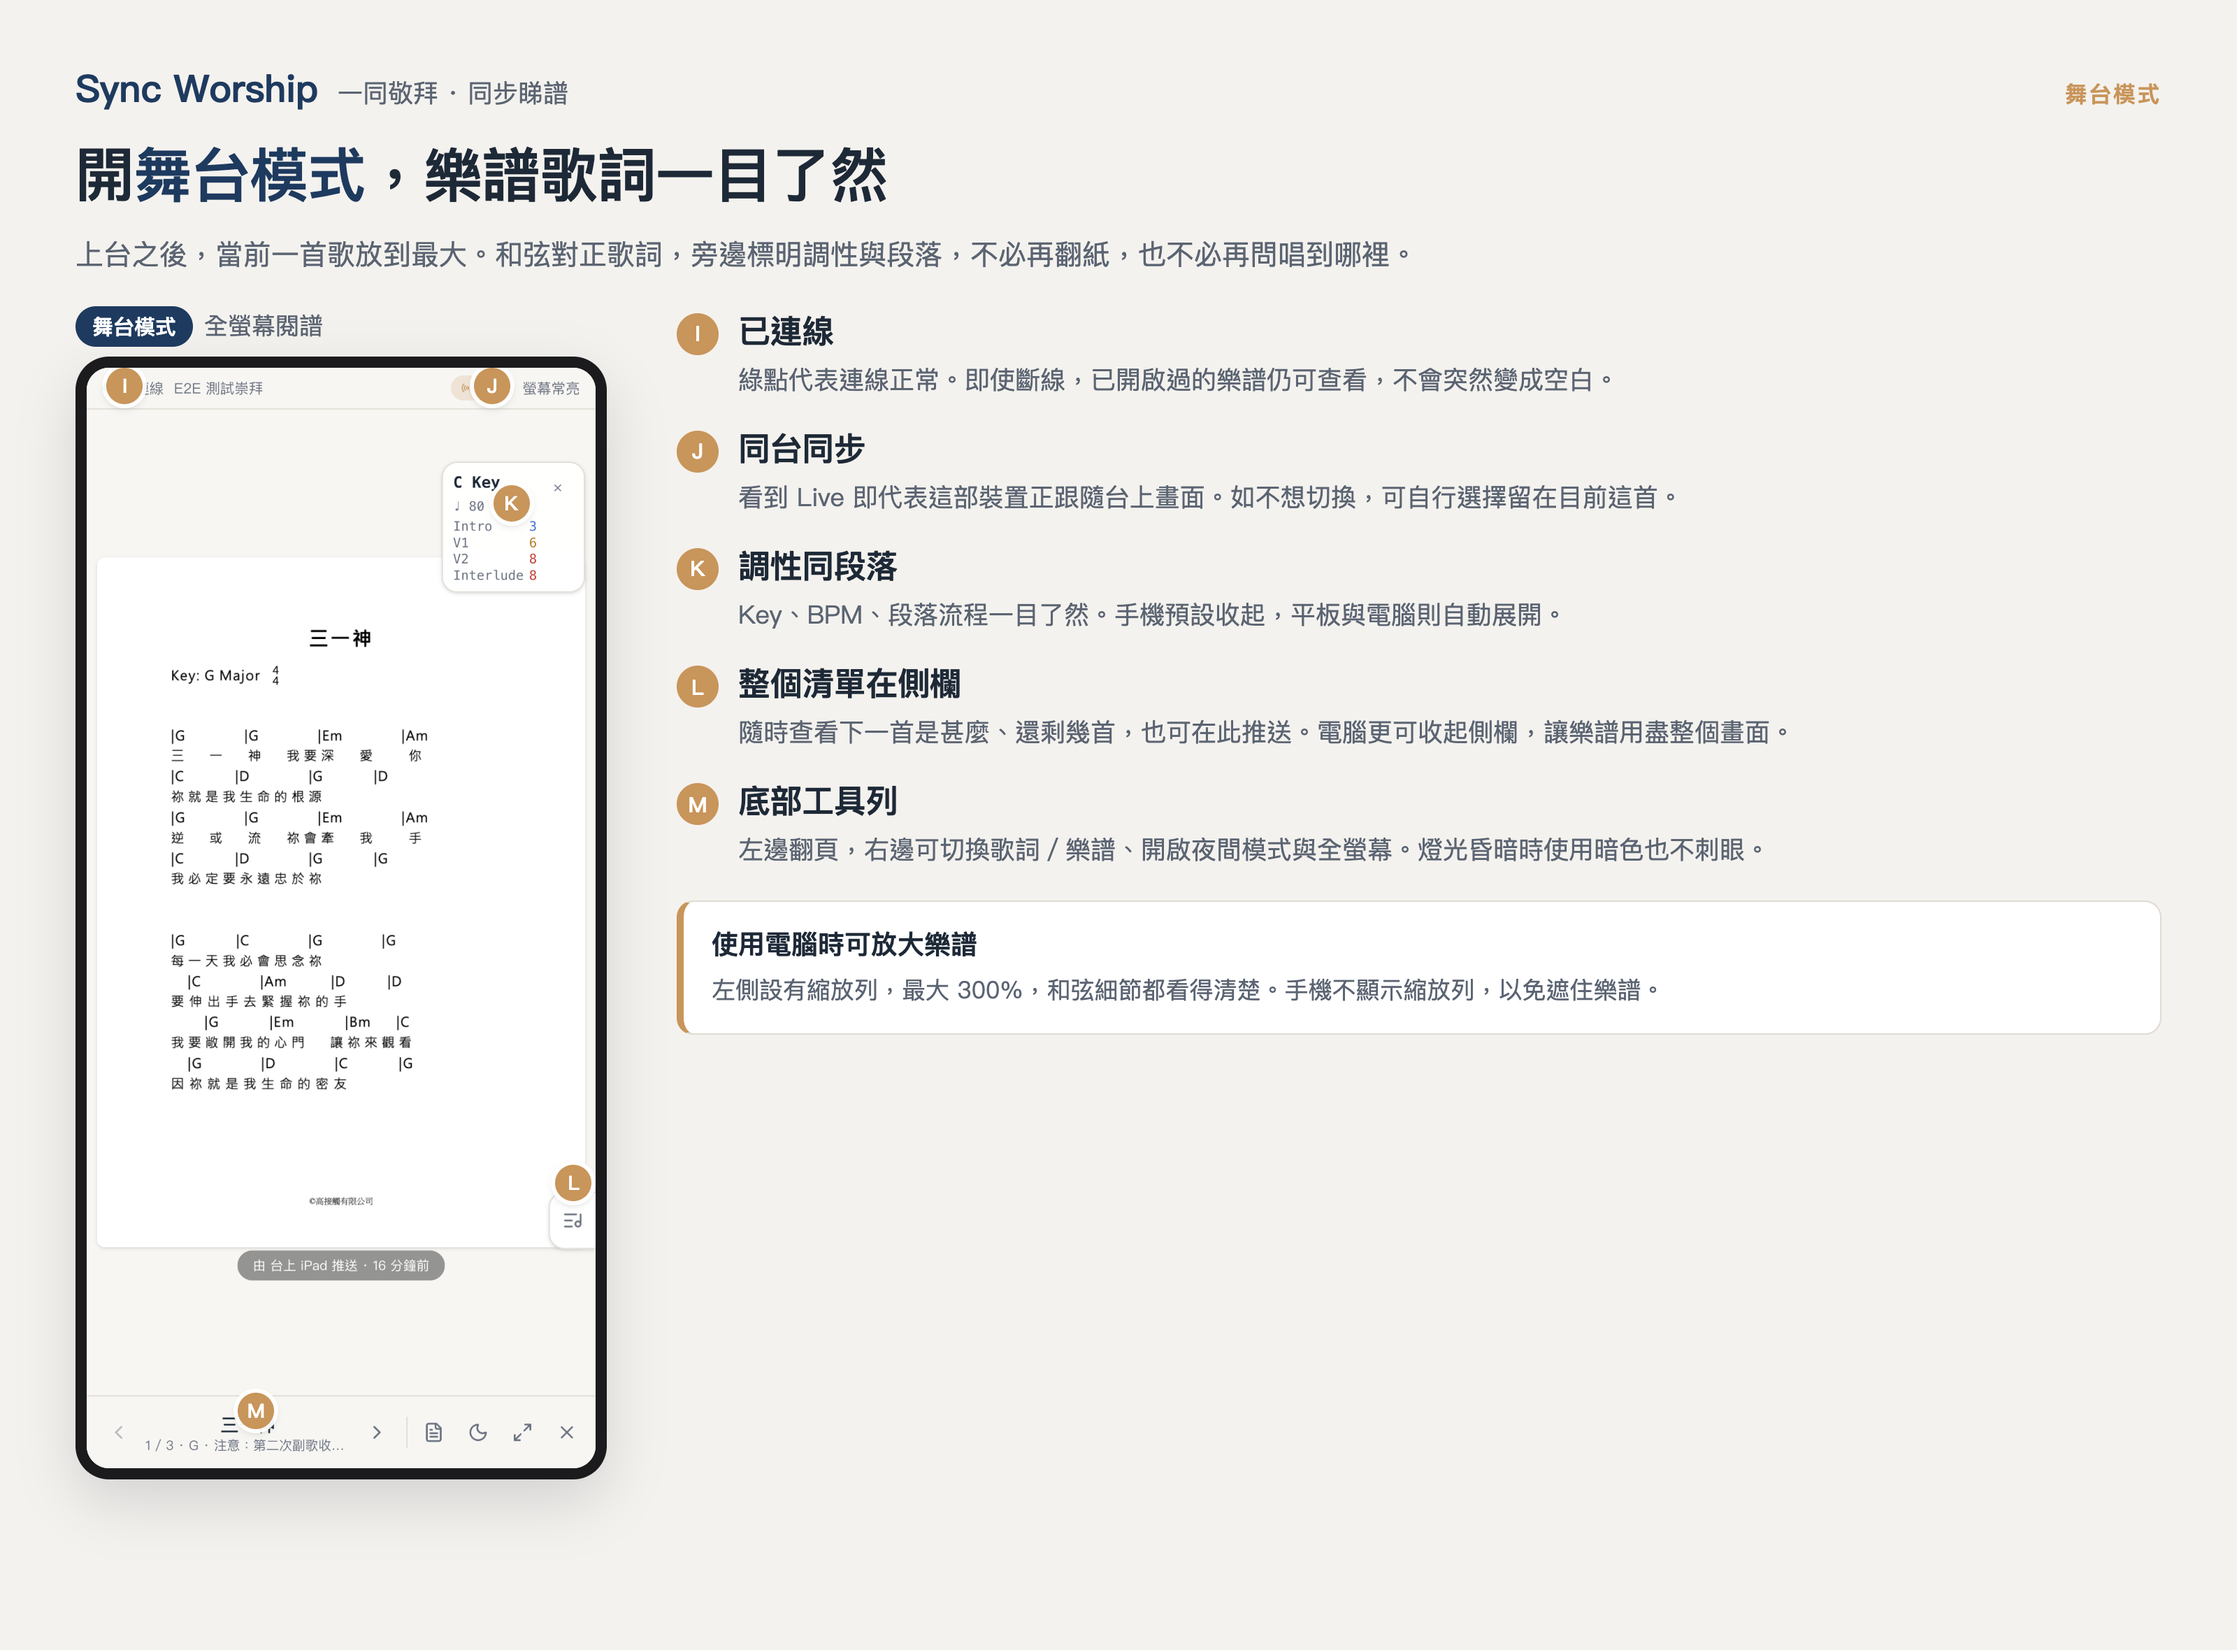
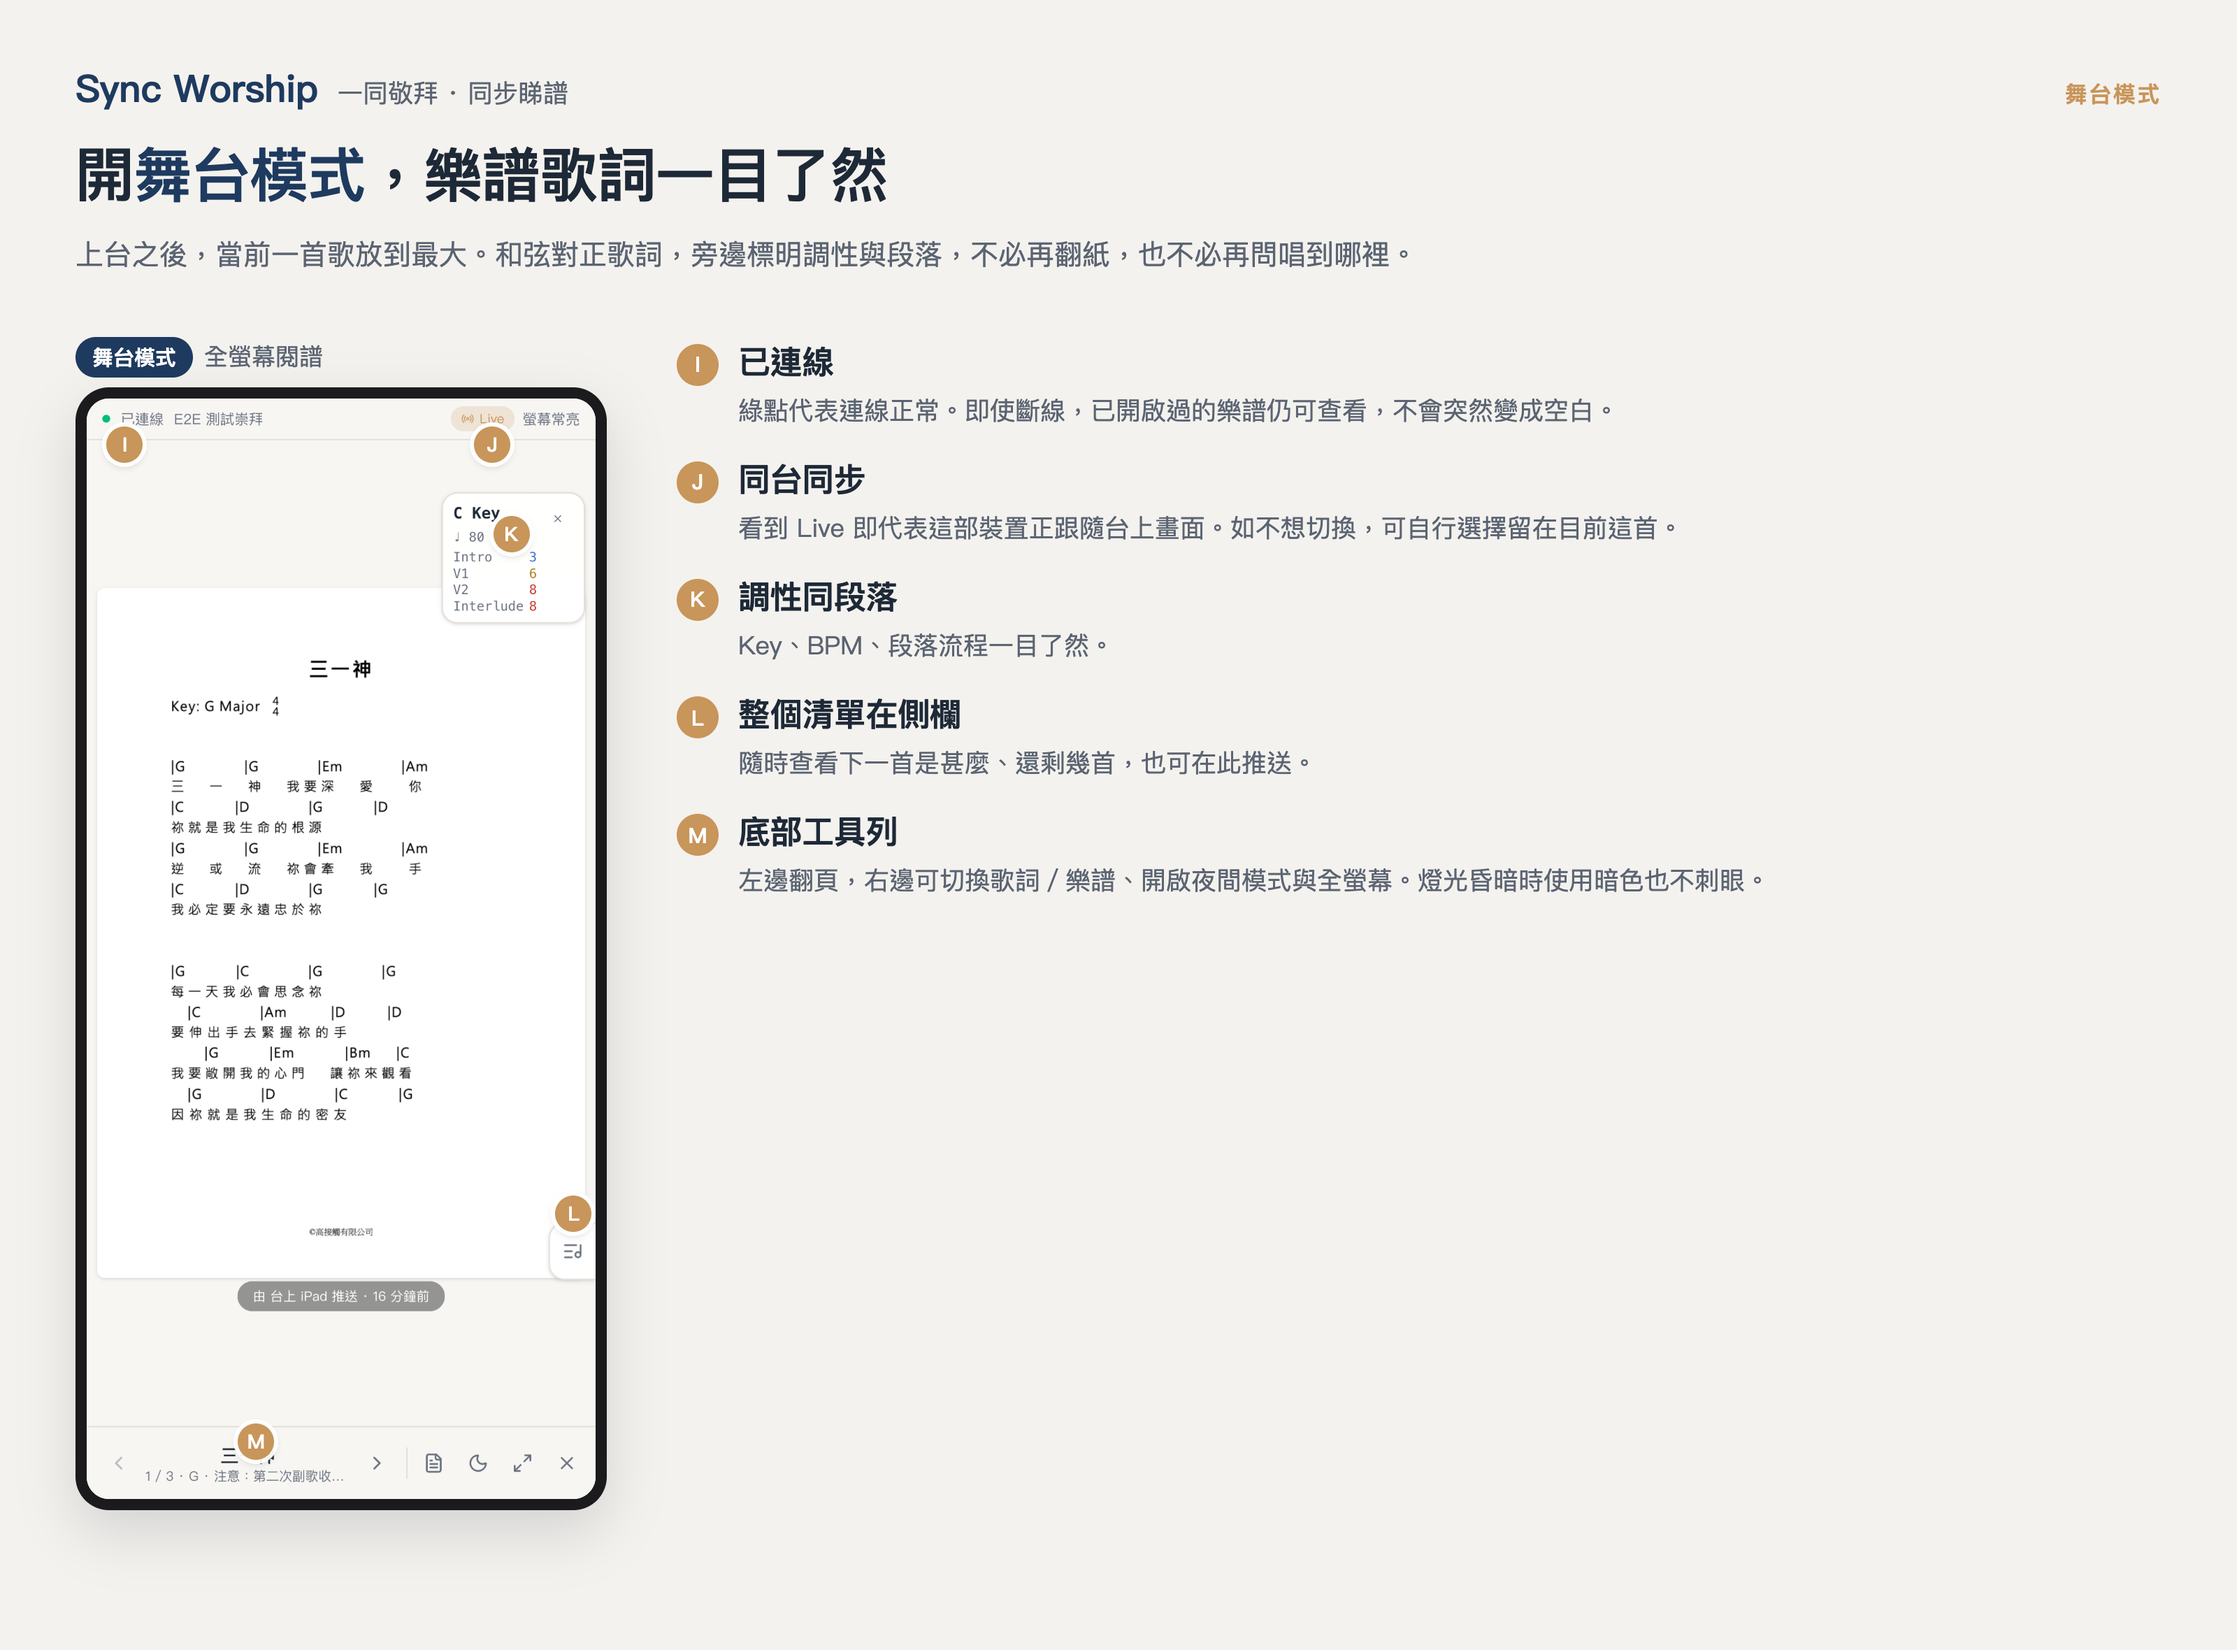
Guide p4: nudge pins I/J down, trim K/L/box copy; 44px spacing on p3+p4

diff --git a/docs/p4-stage.html b/docs/p4-stage.html
@@ -16,14 +16,14 @@
 <h1>開<b>舞台模式</b>，樂譜歌詞一目了然</h1>
 <p class="lead">上台之後，當前一首歌放到最大。和弦對正歌詞，旁邊標明調性與段落，不必再翻紙，也不必再問唱到哪裡。</p>
 
-<div class="split">
+<div class="split" style="margin-top:44px">
   <div>
     <div class="shotcap"><span class="pill">舞台模式</span>全螢幕閱譜</div>
     <div class="phone">
       <div class="shot">
         <img src="../s3_stage.png" alt="舞台模式" />
-        <span class="pin" style="left:7.5%; top:1.7%">I</span>
-        <span class="pin" style="left:79.7%; top:1.7%">J</span>
+        <span class="pin" style="left:7.5%; top:4.2%">I</span>
+        <span class="pin" style="left:79.7%; top:4.2%">J</span>
         <span class="pin" style="left:83.4%; top:12.4%">K</span>
         <span class="pin" style="left:95.7%; top:74.0%">L</span>
         <span class="pin" style="left:33.3%; top:94.8%">M</span>
@@ -43,21 +43,17 @@
 
       <div class="pt"><span class="k">K</span>
         <div><b>調性同段落</b>
-          <p>Key、BPM、段落流程一目了然。手機預設收起，平板與電腦則自動展開。</p></div></div>
+          <p>Key、BPM、段落流程一目了然。</p></div></div>
 
       <div class="pt"><span class="k">L</span>
         <div><b>整個清單在側欄</b>
-          <p>隨時查看下一首是甚麼、還剩幾首，也可在此推送。電腦更可收起側欄，讓樂譜用盡整個畫面。</p></div></div>
+          <p>隨時查看下一首是甚麼、還剩幾首，也可在此推送。</p></div></div>
 
       <div class="pt"><span class="k">M</span>
         <div><b>底部工具列</b>
           <p>左邊翻頁，右邊可切換歌詞／樂譜、開啟夜間模式與全螢幕。燈光昏暗時使用暗色也不刺眼。</p></div></div>
     </div>
 
-    <div class="box">
-      <b>使用電腦時可放大樂譜</b>
-      <p>左側設有縮放列，最大 300%，和弦細節都看得清楚。手機不顯示縮放列，以免遮住樂譜。</p>
-    </div>
   </div>
 </div>
 

diff --git a/docs/p3-library.html b/docs/p3-library.html
@@ -16,7 +16,7 @@
 <h1>上傳<b>詩歌庫</b>，日後都找得到</h1>
 <p class="lead">樂譜可以是 PDF，也可以是手機拍下的相片。上傳後自動辨識歌詞與和弦，日後用一個欄位就能找回。</p>
 
-<div class="split">
+<div class="split" style="margin-top:44px">
   <div>
     <div class="shotcap"><span class="pill">詩歌庫</span>上傳、搜尋、篩選</div>
     <div class="phone">
